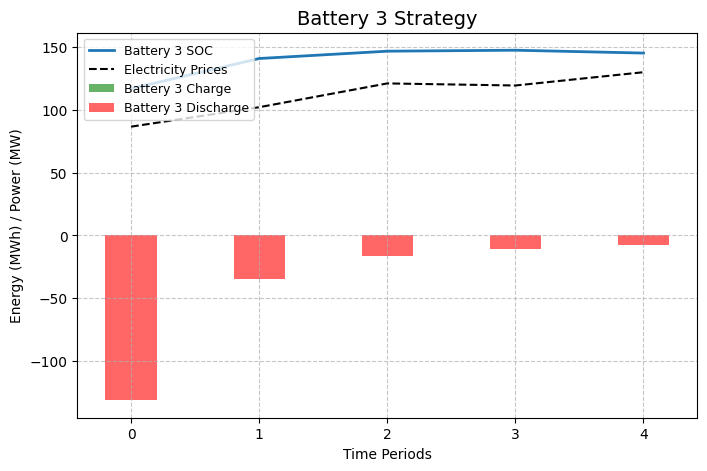
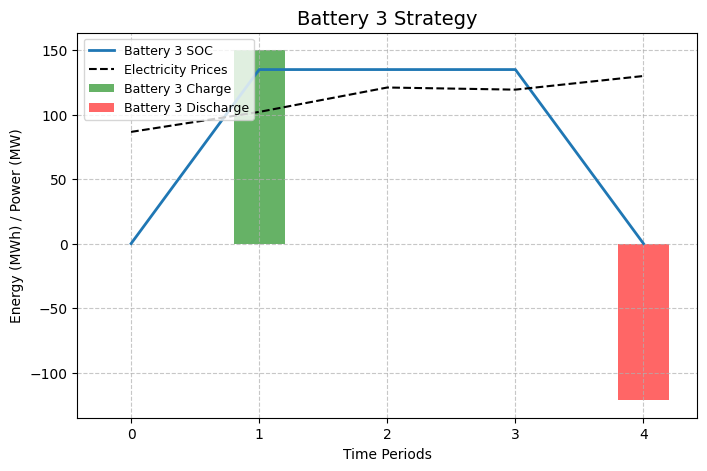
bug fix, predemo

diff --git a/last_semester_example.py b/last_semester_example.py
@@ -27,7 +27,7 @@ if __name__ == "__main__":
     battery1 = Battery(problemClass, 50, 50, "bat1", 100 )
     battery2 = Battery(problemClass, 100, 100,"bat2",  200)
     battery3 = Battery(problemClass, 150, 150, "bat3", 300)
-    power_exchange = PowerExchange(problemClass, 50, 50, "power_exchange")
+    power_exchange = PowerExchange(problemClass, 350, 350, "power_exchange")
 
     # Connect the nodes
     power_exchange - battery1
@@ -70,7 +70,7 @@ if __name__ == "__main__":
             for key, value in item.items():
                 if 'SOC' in value and 'powerFlow' in value:  # Check if the key contains SOC and powerFlow
                     soc.append(value['SOC'])
-                    power_flow.append(value['powerFlow'])
+                    power_flow.append(-value['powerFlow'])
 
     soc = np.array(soc)
     power_flow = np.array(power_flow)

diff --git a/optimization/solver_classes.py b/optimization/solver_classes.py
@@ -19,7 +19,7 @@ class GraphProblemClass():
         self._nodes = []
 
     def __repr__(self):
-        return f"GraphProblemClass(name={self.name},nodes={self.nodes})"
+        return f"GraphProblemClass(name={self.name},nodes={self._nodes})"
     
     def add_node(self, node):
         self._nodes.append(node)
